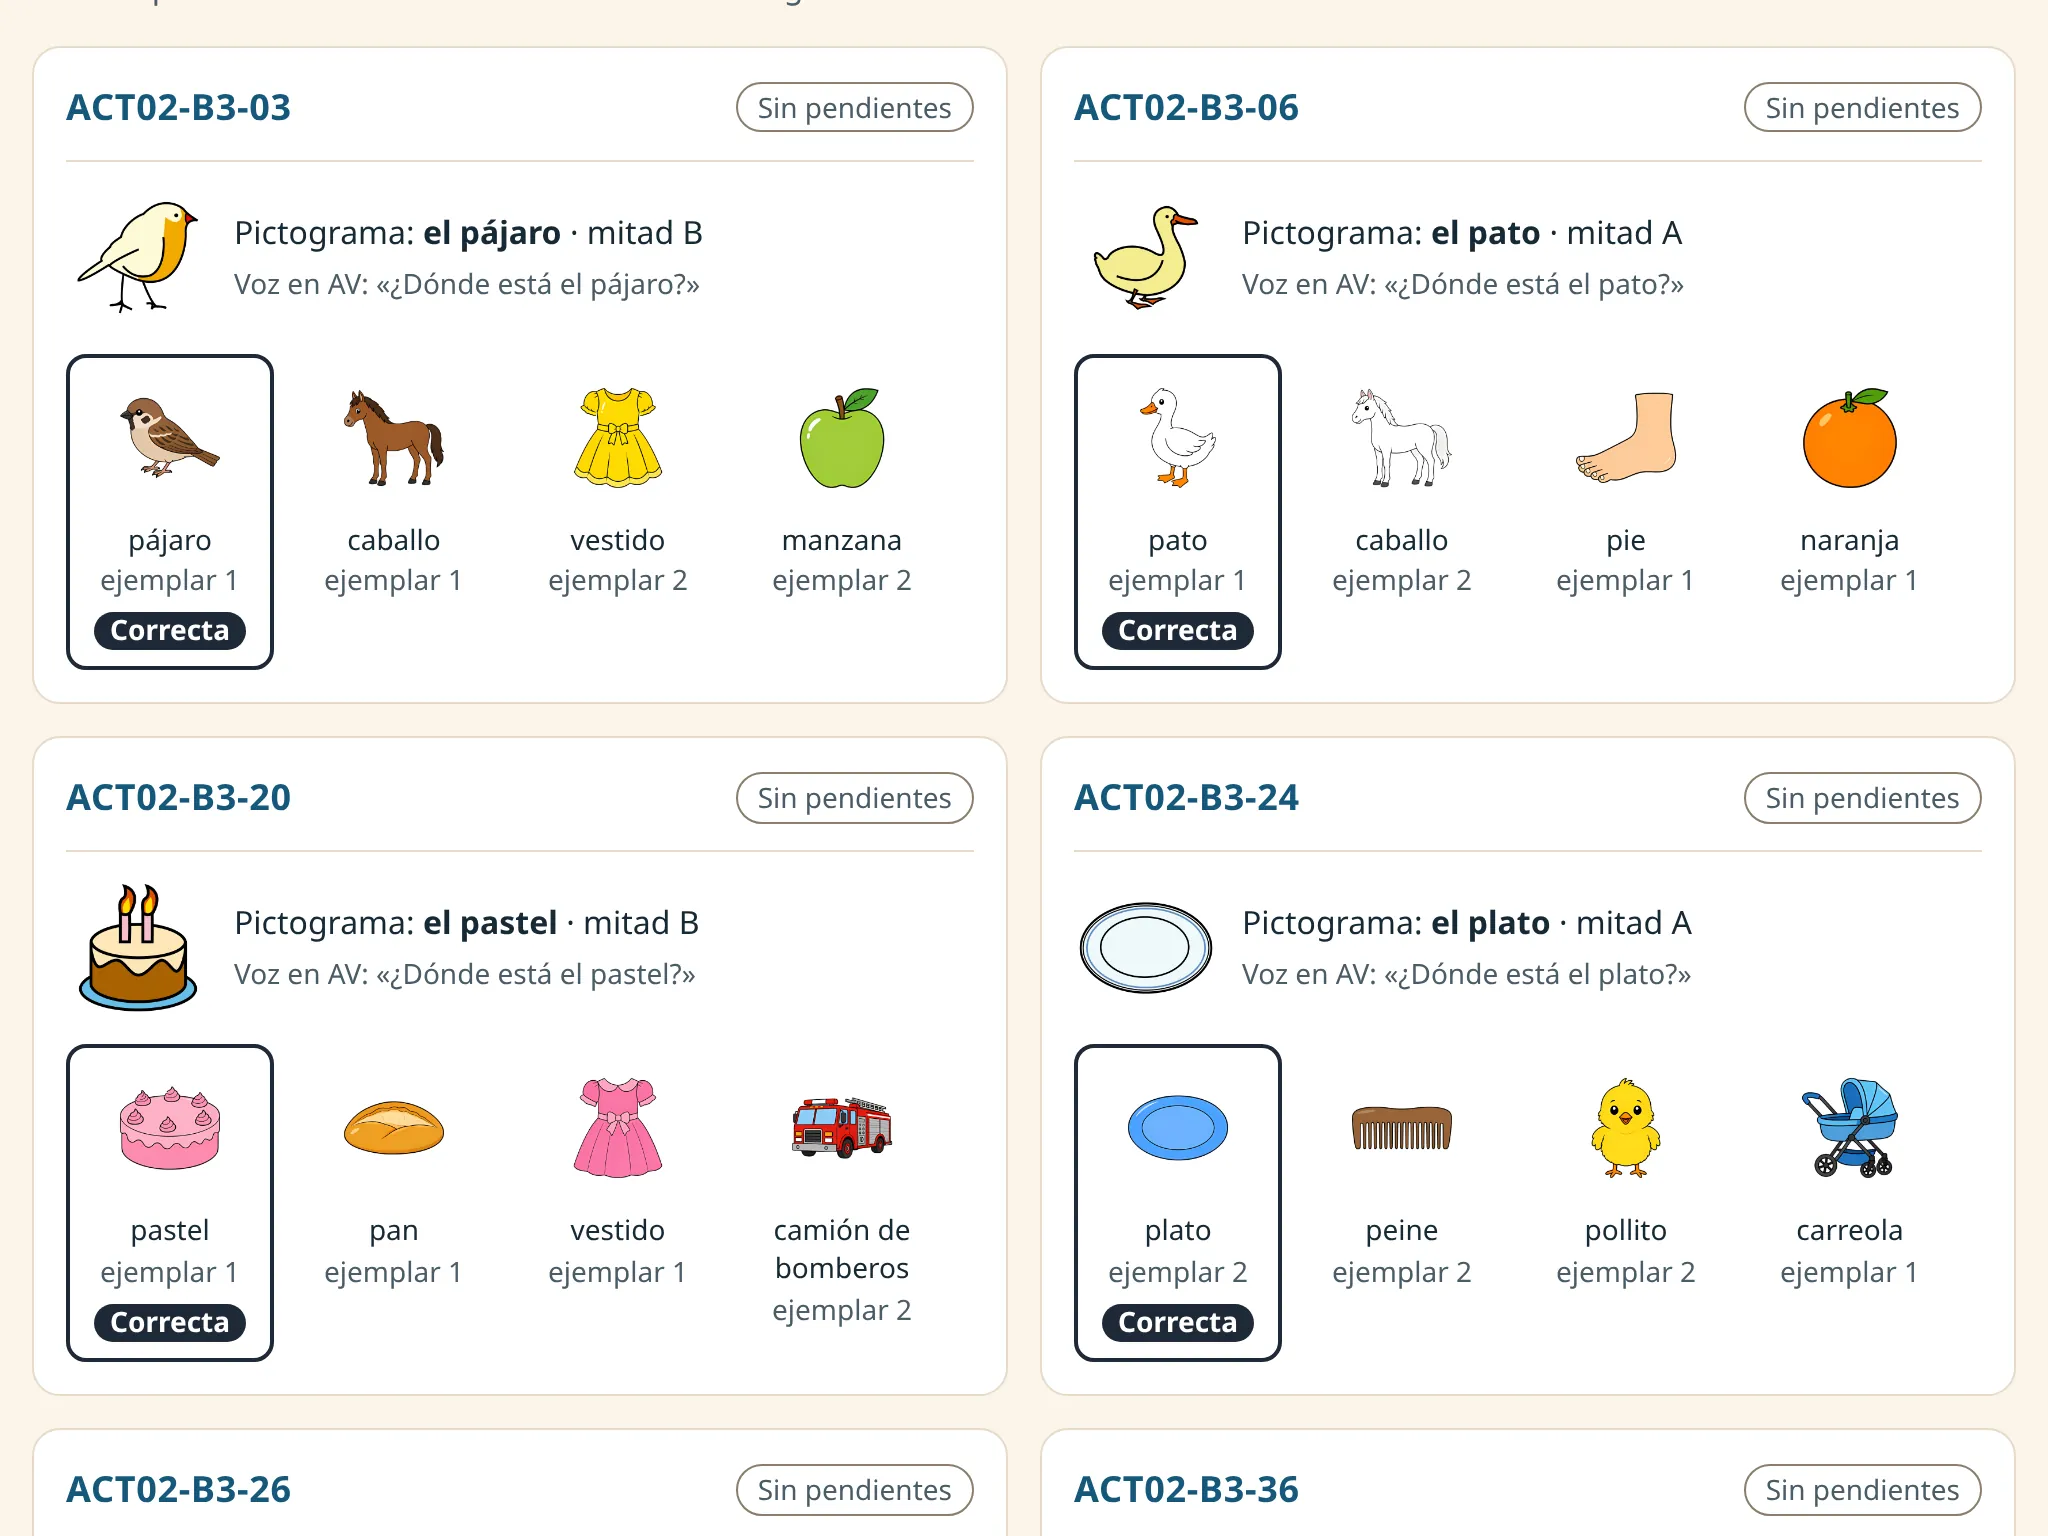
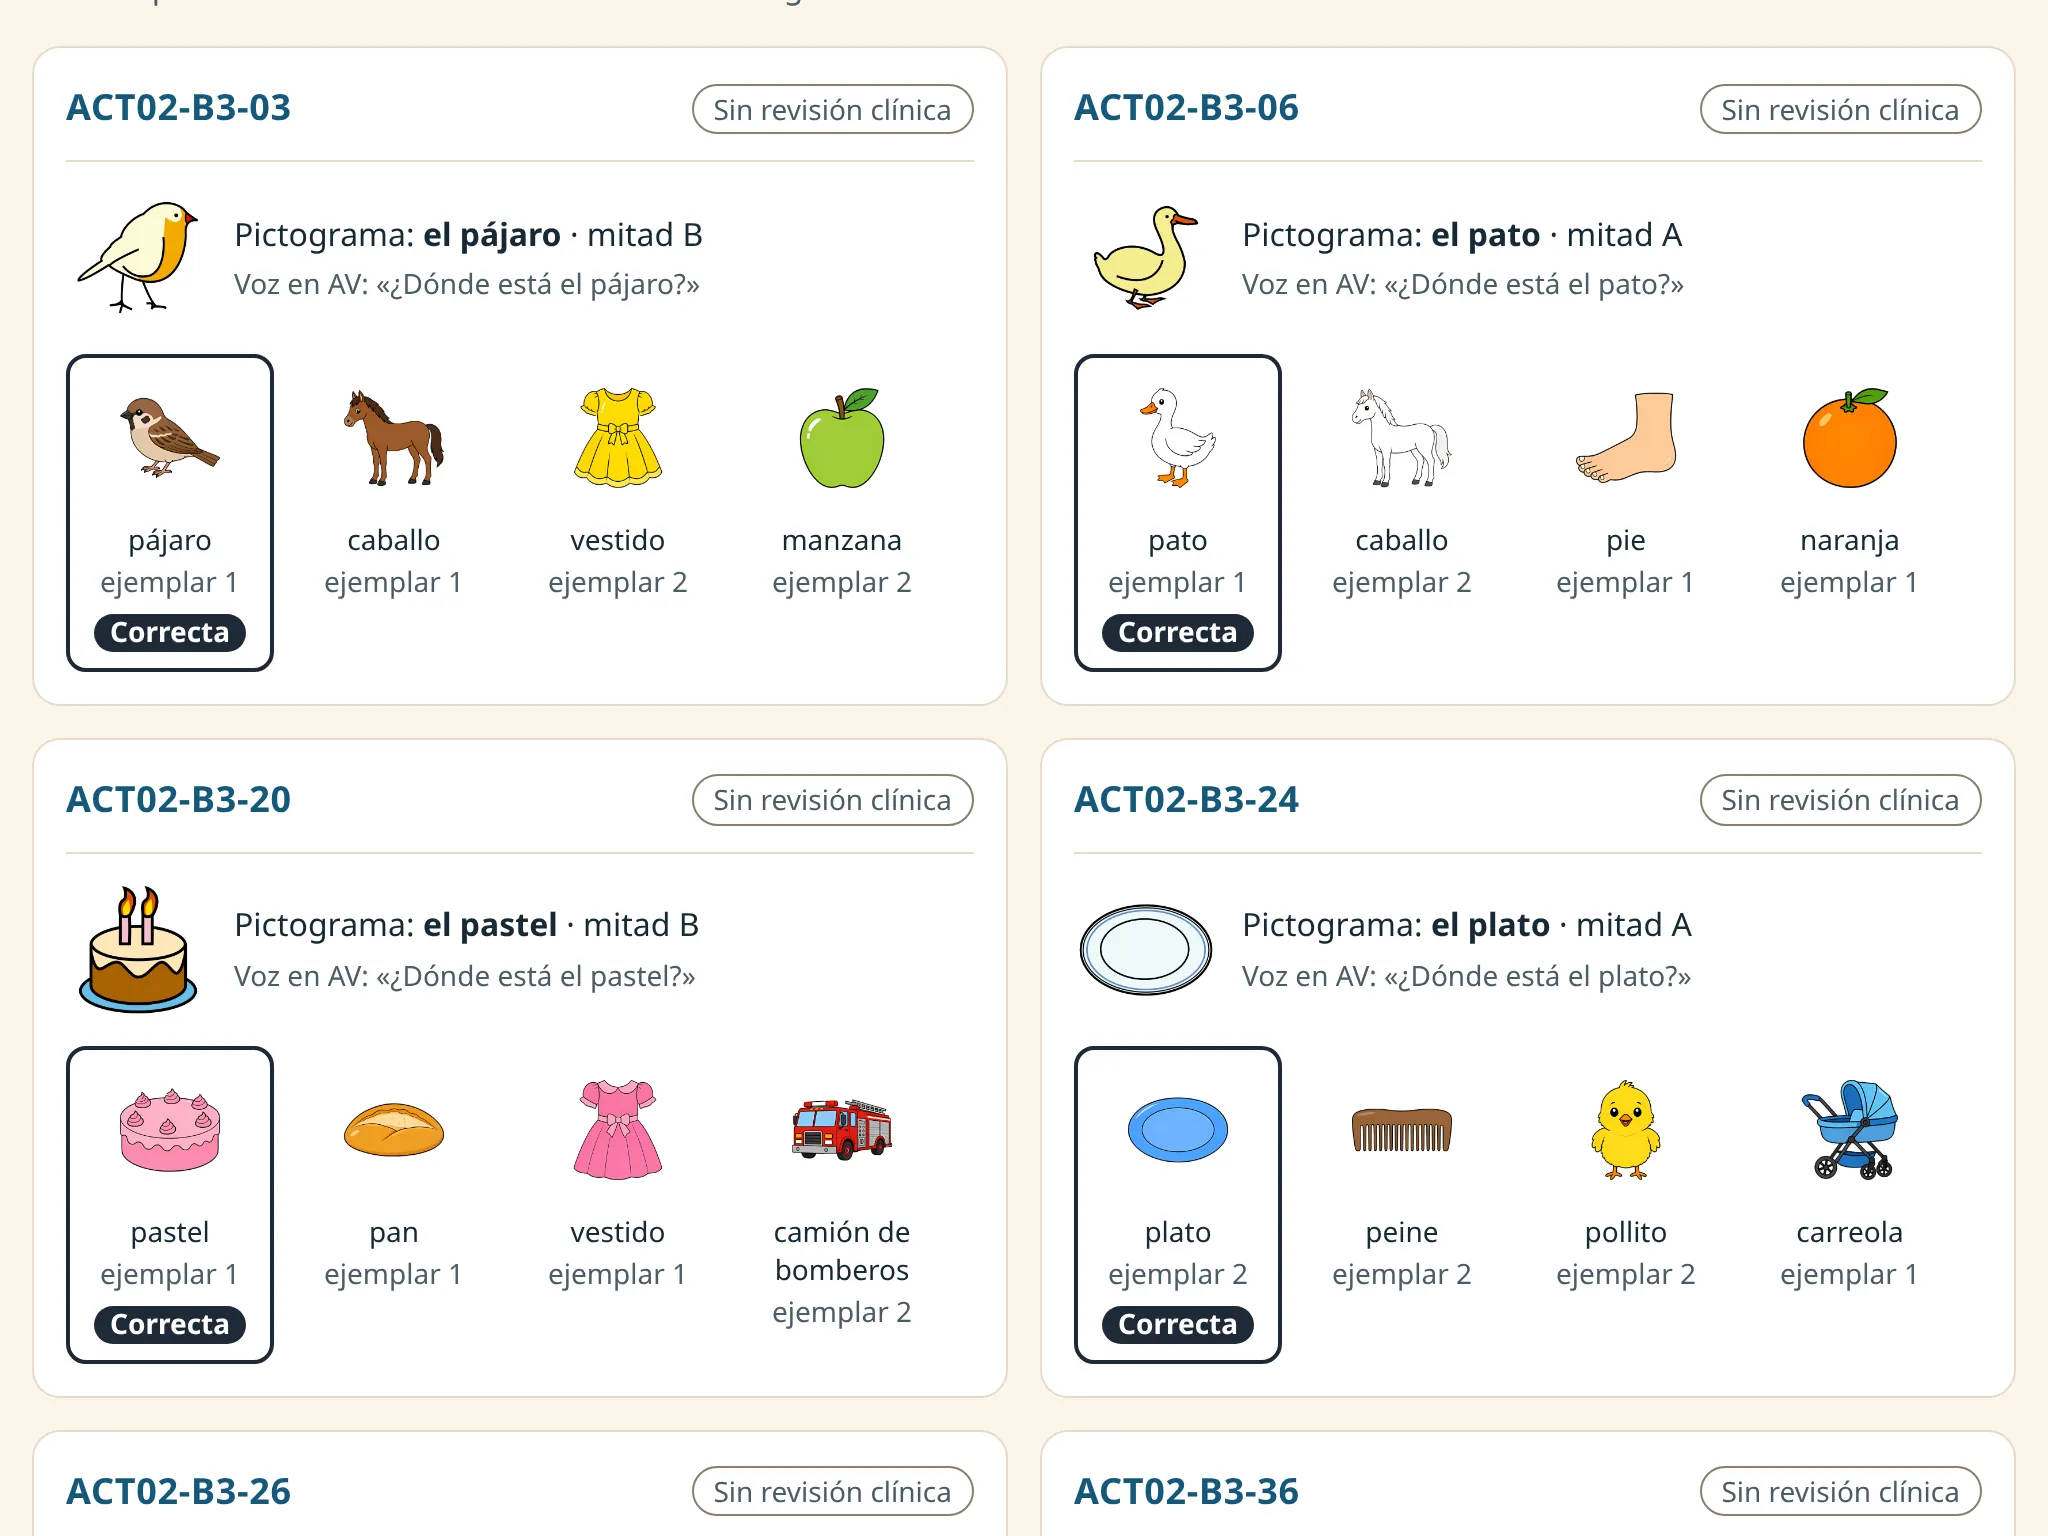
Actualiza las capturas de la página de producto con la referencia motora y la revisión clínica
- Galería, resumen y sesiones, tomadas con la versión que ya incluye lo
  de main: la sesión de demostración con su referencia motora y los
  ítems con su estado de revisión clínica.
- Los textos alternativos y la nota de las capturas lo dicen.

Claude-Session: https://claude.ai/code/session_01YFZtU3qLhKNTPGUUqX3szs

diff --git a/pagina-producto/index.html b/pagina-producto/index.html
@@ -129,7 +129,7 @@
               <div class="diapositiva diapositiva--noche noche" aria-roledescription="diapositiva" aria-label="4 de 5">
                 <p class="diapositiva__texto"><strong>Un registro que sale listo.</strong> Al terminar, descargas cada ensayo en CSV o JSON, completo o sesión por sesión. Nada se envía a ningún servidor.</p>
                 <div class="diapositiva__medio">
-                  <div class="tableta"><img src="../assets/pagina-producto/sesiones.webp" alt="Página Sesiones: una sesión con el resumen de su bloque y, a un lado, el registro con seis ensayos guardados en este dispositivo y los botones de descarga." width="2048" height="1536" loading="lazy" /></div>
+                  <div class="tableta"><img src="../assets/pagina-producto/sesiones.webp" alt="Página Sesiones: una sesión de demostración con su referencia motora y el resumen de su bloque y, a un lado, el registro con seis ensayos guardados en este dispositivo y los botones de descarga." width="2048" height="1536" loading="lazy" /></div>
                 </div>
               </div>
               <div class="diapositiva" aria-roledescription="diapositiva" aria-label="5 de 5">
@@ -374,7 +374,7 @@
             <div class="tarjeta tarjeta--captura flotante">
               <h3>La galería, a la mano.</h3>
               <p>Cada ítem con su código, su consigna, sus opciones y la respuesta correcta marcada.</p>
-              <div class="tableta"><img src="../assets/pagina-producto/galeria.webp" alt="Galería de ítems de Pictograma e imagen, banda B3: cada ítem con su código, su pictograma, sus cuatro imágenes y la correcta marcada." width="2048" height="1536" loading="lazy" /></div>
+              <div class="tableta"><img src="../assets/pagina-producto/galeria.webp" alt="Galería de ítems de Pictograma e imagen, banda B3: cada ítem con su código, su estado de revisión clínica, su pictograma, sus cuatro imágenes y la correcta marcada." width="2048" height="1536" loading="lazy" /></div>
             </div>
           </div>
           <div class="rejilla rejilla--seguida aparece">
@@ -1029,7 +1029,7 @@
       <div class="contenedor">
         <ol class="pie__notas">
           <li>AutiPal es un prototipo en fase de pruebas (encargo E13, versión 0.1.0). No es un dispositivo médico: no diagnostica, no fija objetivos por sí mismo y no sustituye la valoración ni la terapia. Las decisiones son del profesional.</li>
-          <li>Las capturas son del prototipo real, con datos de demostración: las de la pantalla del niño en Cambia la regla, del 6 de noviembre de 2026; las del terapeuta y las de las actividades en preparación, del 11 de noviembre. Los 180 dibujos del banco se hicieron para este prototipo en el estilo de los dibujos de las libretas de estímulos: 134 con inteligencia artificial en Canva, 44 como variantes sin IA de esos dibujos y 2 con código. Todos son originales, no copian láminas de ninguna prueba ni muestran a personas reales, y esperan revisión clínica. Son dibujos, no fotografías, porque así son los estímulos de las libretas: un solo objeto, claro y sin detalles que distraigan.</li>
+          <li>Las capturas son del prototipo real, con datos de demostración: las de la pantalla del niño en Cambia la regla, del 6 de noviembre de 2026; las del terapeuta y las de las actividades en preparación, del 11 y el 12 de noviembre. Los 180 dibujos del banco se hicieron para este prototipo en el estilo de los dibujos de las libretas de estímulos: 134 con inteligencia artificial en Canva, 44 como variantes sin IA de esos dibujos y 2 con código. Todos son originales, no copian láminas de ninguna prueba ni muestran a personas reales, y esperan revisión clínica. Son dibujos, no fotografías, porque así son los estímulos de las libretas: un solo objeto, claro y sin detalles que distraigan.</li>
           <li>El registro guarda los tiempos con resolución de 0.1 ms. La exactitud de cada medida depende de la pantalla, del navegador y del dispositivo; por eso la latencia del dispositivo tiene su propia columna, que se llena cuando se mide.</li>
           <li>Las funciones marcadas «En diseño» son parte del diseño documentado de Neuro-BlueMinds y aún no están en el prototipo. Todavía no hay datos de participantes: la fiabilidad y la validez se medirán con 24 niños en 2027, bajo el marco V3.</li>
           <li>C&amp;W está en desarrollo y todavía no mide. El costo es la suma aproximada de sus cuatro componentes principales, sin batería, carcasa ni motor.</li>
